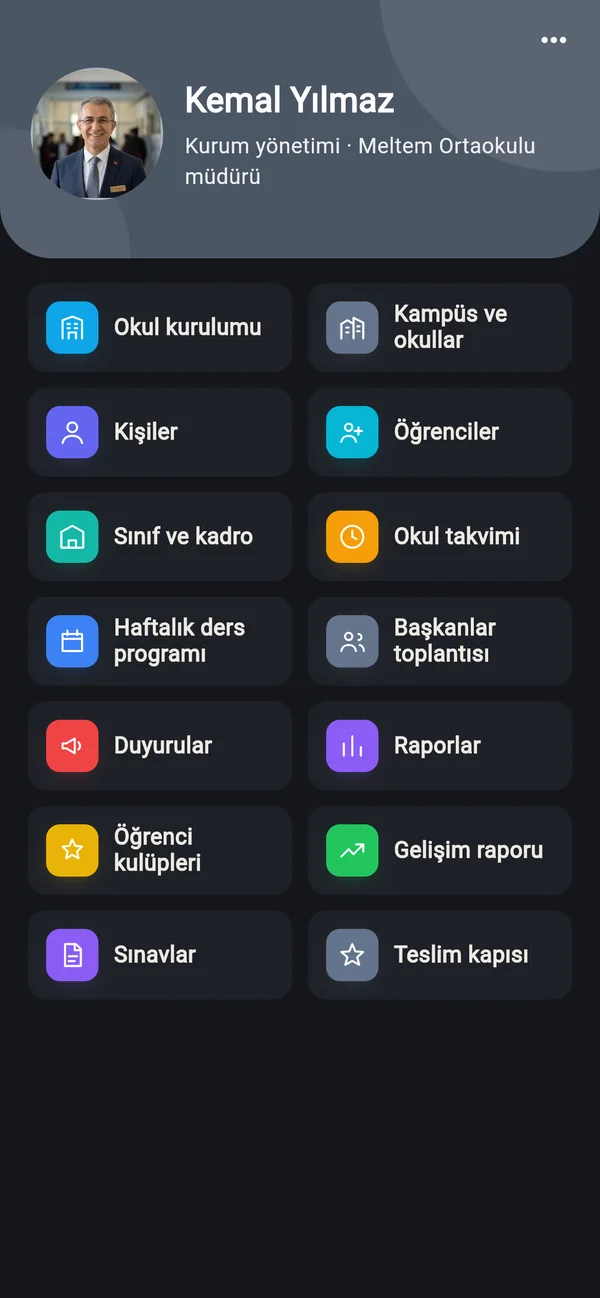
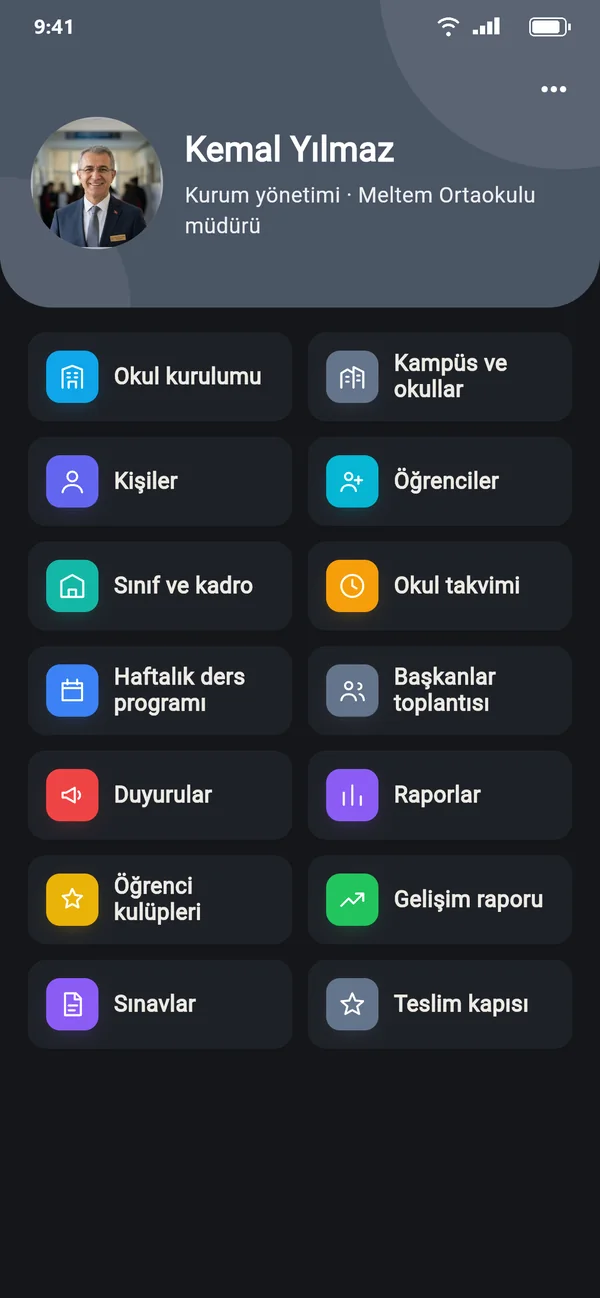
Tanıtım: gerçek uygulama akışından koyu tema ekranlar, durum çubuğu, web görünümleri ve web sürümü butonu kaldırıldı, teslim yetkilileri ekranı eklendi

diff --git a/site/index.html b/site/index.html
@@ -6,7 +6,7 @@
   <meta name="theme-color" content="#0e1726">
   <title>neademy - Okul yönetim platformu</title>
   <meta name="description" content="neademy: yönetim, öğretmen, öğrenci ve veliyi tek yerde buluşturan okul yönetim platformu. iPhone, Android ve web.">
-  <link rel="stylesheet" href="/tanitim.css?v=4">
+  <link rel="stylesheet" href="/tanitim.css?v=5">
 </head>
 <body>
   <svg class="sprite" width="0" height="0" aria-hidden="true" focusable="false">
@@ -59,7 +59,7 @@
           </ul>
         </div>
         <div class="sahne rv">
-          <div class="tel buyuk"><img src="/img/program.webp?v=2" width="600" height="1298" alt="neademy ders programı ekranı: günlük ders listesi"></div>
+          <div class="tel buyuk"><img src="/img/program.webp?v=3" width="600" height="1298" alt="neademy ders programı ekranı: günlük ders listesi"></div>
         </div>
       </div>
     </section>
@@ -68,7 +68,7 @@
     <section class="bolum koyu2" id="nedir">
       <div class="kap iki ters">
         <div class="sahne rv">
-          <div class="tel"><img src="/img/devam.webp?v=2" width="600" height="1298" alt="neademy devamsızlık ekranı: devam oranı ve derslere göre dağılım"></div>
+          <div class="tel"><img src="/img/devam.webp?v=3" width="600" height="1298" alt="neademy devamsızlık ekranı: devam oranı ve derslere göre dağılım"></div>
         </div>
         <div class="rv">
           <p class="etiket">Sorun</p>
@@ -87,10 +87,10 @@
         <h2>Her rolün kendi ekranı</h2>
         <p class="par genis">Müdürün, öğretmenin, öğrencinin ve velinin ihtiyacı aynı değildir. neademy’de herkes yalnızca kendi işine yarayan ekranları görür. Birden fazla rolü olan biri (örneğin hem öğretmen hem veli) tek hesapla rol değiştirir. Yetkisi olmayan veriye sunucu hiçbir koşulda izin vermez.</p>
         <div class="telsira">
-          <figure><div class="tel"><img src="/img/panel-yonetim.webp?v=2" width="600" height="1298" alt="neademy yönetim paneli"></div><figcaption>Yönetim</figcaption></figure>
-          <figure><div class="tel"><img src="/img/panel-ogretmen.webp?v=2" width="600" height="1298" alt="neademy öğretmen paneli"></div><figcaption>Öğretmen</figcaption></figure>
-          <figure><div class="tel"><img src="/img/panel-ogrenci.webp?v=2" width="600" height="1298" alt="neademy öğrenci paneli"></div><figcaption>Öğrenci</figcaption></figure>
-          <figure><div class="tel"><img src="/img/panel-veli.webp?v=2" width="600" height="1298" alt="neademy veli paneli"></div><figcaption>Veli</figcaption></figure>
+          <figure><div class="tel"><img src="/img/panel-yonetim.webp?v=3" width="600" height="1298" alt="neademy yönetim paneli"></div><figcaption>Yönetim</figcaption></figure>
+          <figure><div class="tel"><img src="/img/panel-ogretmen.webp?v=3" width="600" height="1298" alt="neademy öğretmen paneli"></div><figcaption>Öğretmen</figcaption></figure>
+          <figure><div class="tel"><img src="/img/panel-ogrenci.webp?v=3" width="600" height="1298" alt="neademy öğrenci paneli"></div><figcaption>Öğrenci</figcaption></figure>
+          <figure><div class="tel"><img src="/img/panel-veli.webp?v=3" width="600" height="1298" alt="neademy veli paneli"></div><figcaption>Veli</figcaption></figure>
         </div>
       </div>
     </section>
@@ -125,25 +125,21 @@
         <div class="rv">
           <p class="etiket">Uygulama</p>
           <h2>Her cihazda aynı uygulama</h2>
-          <p class="par genis">iPhone ve Android için yerel uygulama; aynı ekranlar tarayıcıdan da açılır. Telefonda parmak izi ve yüz tanımayla hızlı giriş yapılır.</p>
+          <p class="par genis">iPhone ve Android için yerel uygulama. Telefonda parmak izi ve yüz tanımayla hızlı giriş yapılır.</p>
         </div>
         <div class="telsira rv">
           <figure>
-            <div class="tel"><img src="/img/teslim.webp?v=2" width="600" height="1298" alt="neademy veli teslim kodu ekranı: QR kod"></div>
+            <div class="tel"><img src="/img/teslim.webp?v=3" width="600" height="1298" alt="neademy veli teslim kodu ekranı: QR kod"></div>
             </figure>
           <figure>
-            <div class="tel"><img src="/img/odevler.webp?v=2" width="600" height="1298" alt="neademy ödevler ekranı: yapılacak ve onay bekleyen ödevler"></div>
+            <div class="tel"><img src="/img/yetki.webp?v=3" width="600" height="1298" alt="neademy veli teslim yetkilileri ekranı: kişi ekle ve teslim kayıtları"></div>
             </figure>
           <figure>
-            <div class="tel"><img src="/img/notlar.webp?v=2" width="600" height="1298" alt="neademy sınav sonuçları ekranı: ortalama puanlar ve kazanımlar"></div>
+            <div class="tel"><img src="/img/odevler.webp?v=3" width="600" height="1298" alt="neademy ödevler ekranı: yapılacak ve onay bekleyen ödevler"></div>
             </figure>
-        </div>
-        <div class="webler rv">
-          <figure><div class="tarayici"><span class="nok"><i></i><i></i><i></i></span><img src="/img/web-program.webp?v=2" width="1360" height="820" alt="neademy web paneli: haftalık ders programı"></div><figcaption>Web paneli · Haftalık ders programı</figcaption></figure>
-          <figure><div class="tarayici"><span class="nok"><i></i><i></i><i></i></span><img src="/img/web-raporlar.webp?v=2" width="1360" height="820" alt="neademy web paneli: yönetim raporları"></div><figcaption>Web paneli · Yönetim raporları</figcaption></figure>
-        </div>
-        <div class="eylem orta rv">
-          <a class="dugme bos" href="https://app.neademy.com/uygulama/">Uygulamanın web sürümünü aç</a>
+          <figure>
+            <div class="tel"><img src="/img/notlar.webp?v=3" width="600" height="1298" alt="neademy sınav sonuçları ekranı: ortalama puanlar ve kazanımlar"></div>
+            </figure>
         </div>
       </div>
     </section>
@@ -275,6 +271,6 @@
     </div>
   </footer>
 
-  <script src="/tanitim.js?v=2"></script>
+  <script src="/tanitim.js?v=3"></script>
 </body>
 </html>

diff --git a/site/tanitim.css b/site/tanitim.css
@@ -40,7 +40,7 @@ ol, ul { padding: 0; list-style: none; }
 /* Düğmeler */
 .dugme { display: inline-flex; align-items: center; justify-content: center; gap: 8px; background: var(--accent); color: var(--accent-ink); border: 1px solid var(--accent); border-radius: 8px; padding: 13px 24px; font: inherit; font-weight: 700; font-size: .95rem; text-decoration: none; cursor: pointer; transition: transform .15s, filter .15s; }
 .dugme:hover { filter: brightness(1.08); transform: translateY(-1px); }
-.dugme.bos { background: transparent; color: var(--text); border-color: var(--line); }
+.dugme.bos { background: transparent; color: var(--text); border-color: rgba(255,255,255,.38); }
 .dugme.bos:hover { border-color: var(--muted); filter: none; }
 .dugme.kucuk { padding: 8px 16px; font-size: .78rem; letter-spacing: .08em; text-transform: uppercase; }
 .dugme.genis { width: 100%; margin-top: 20px; }
